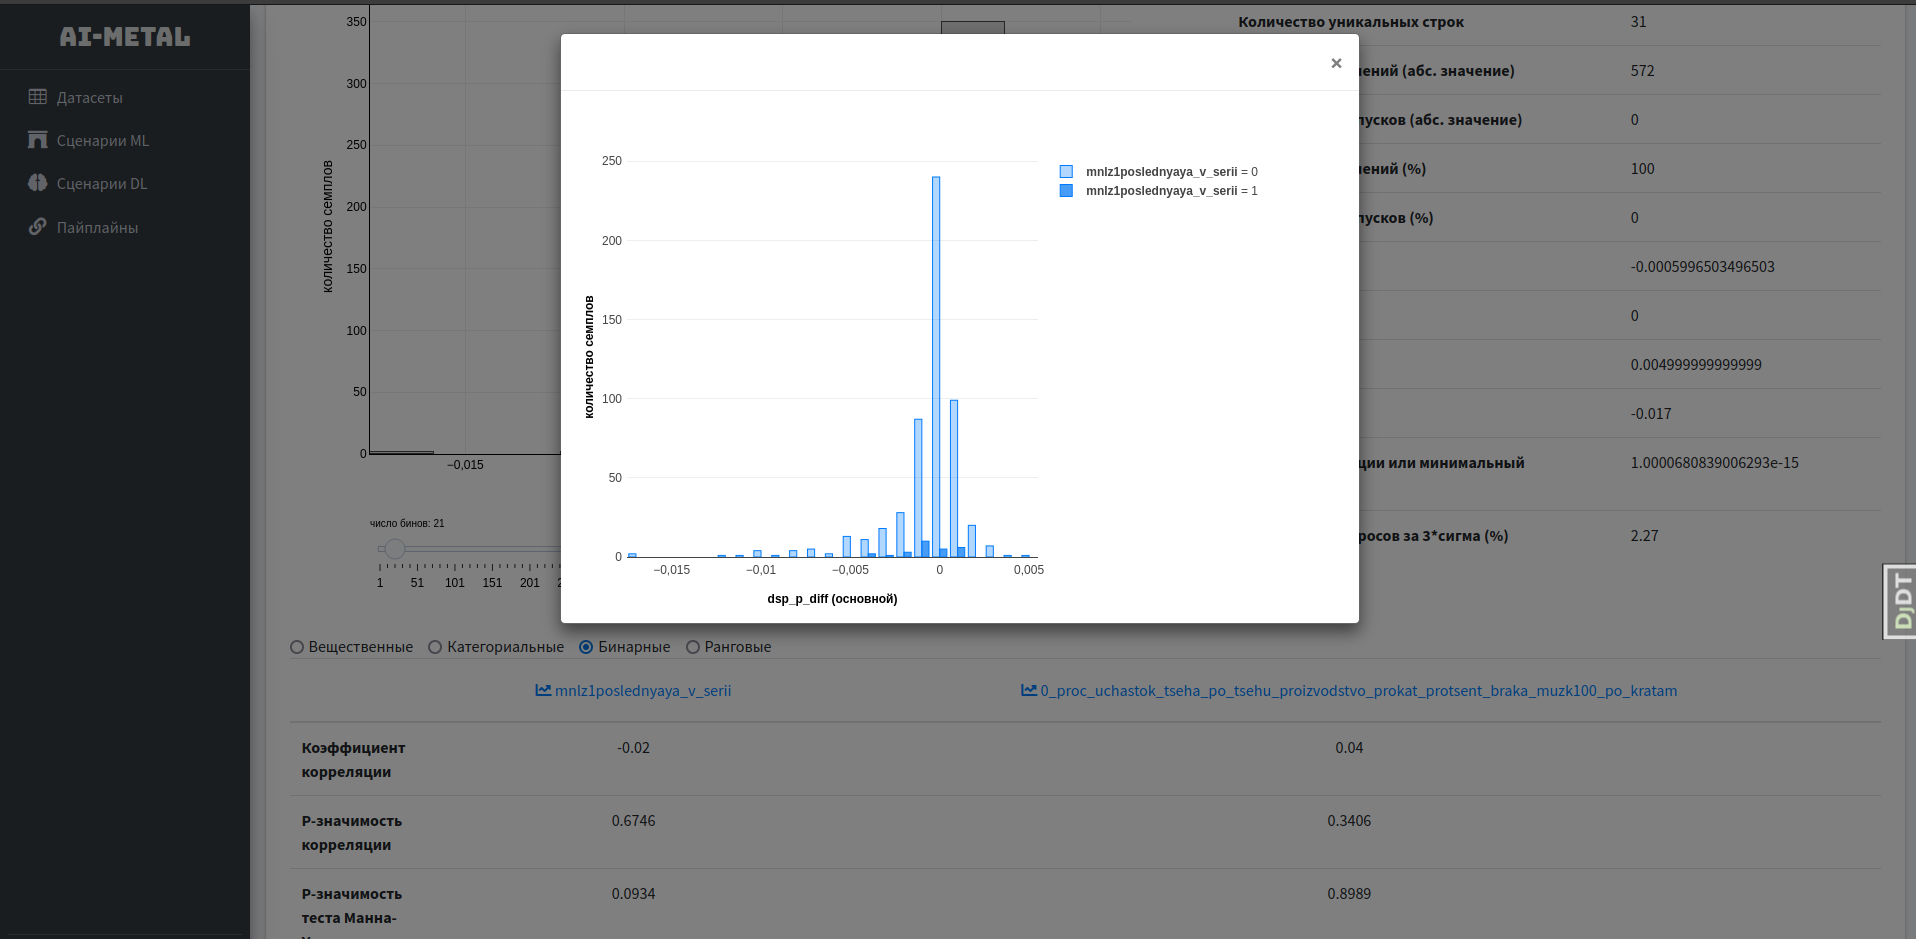
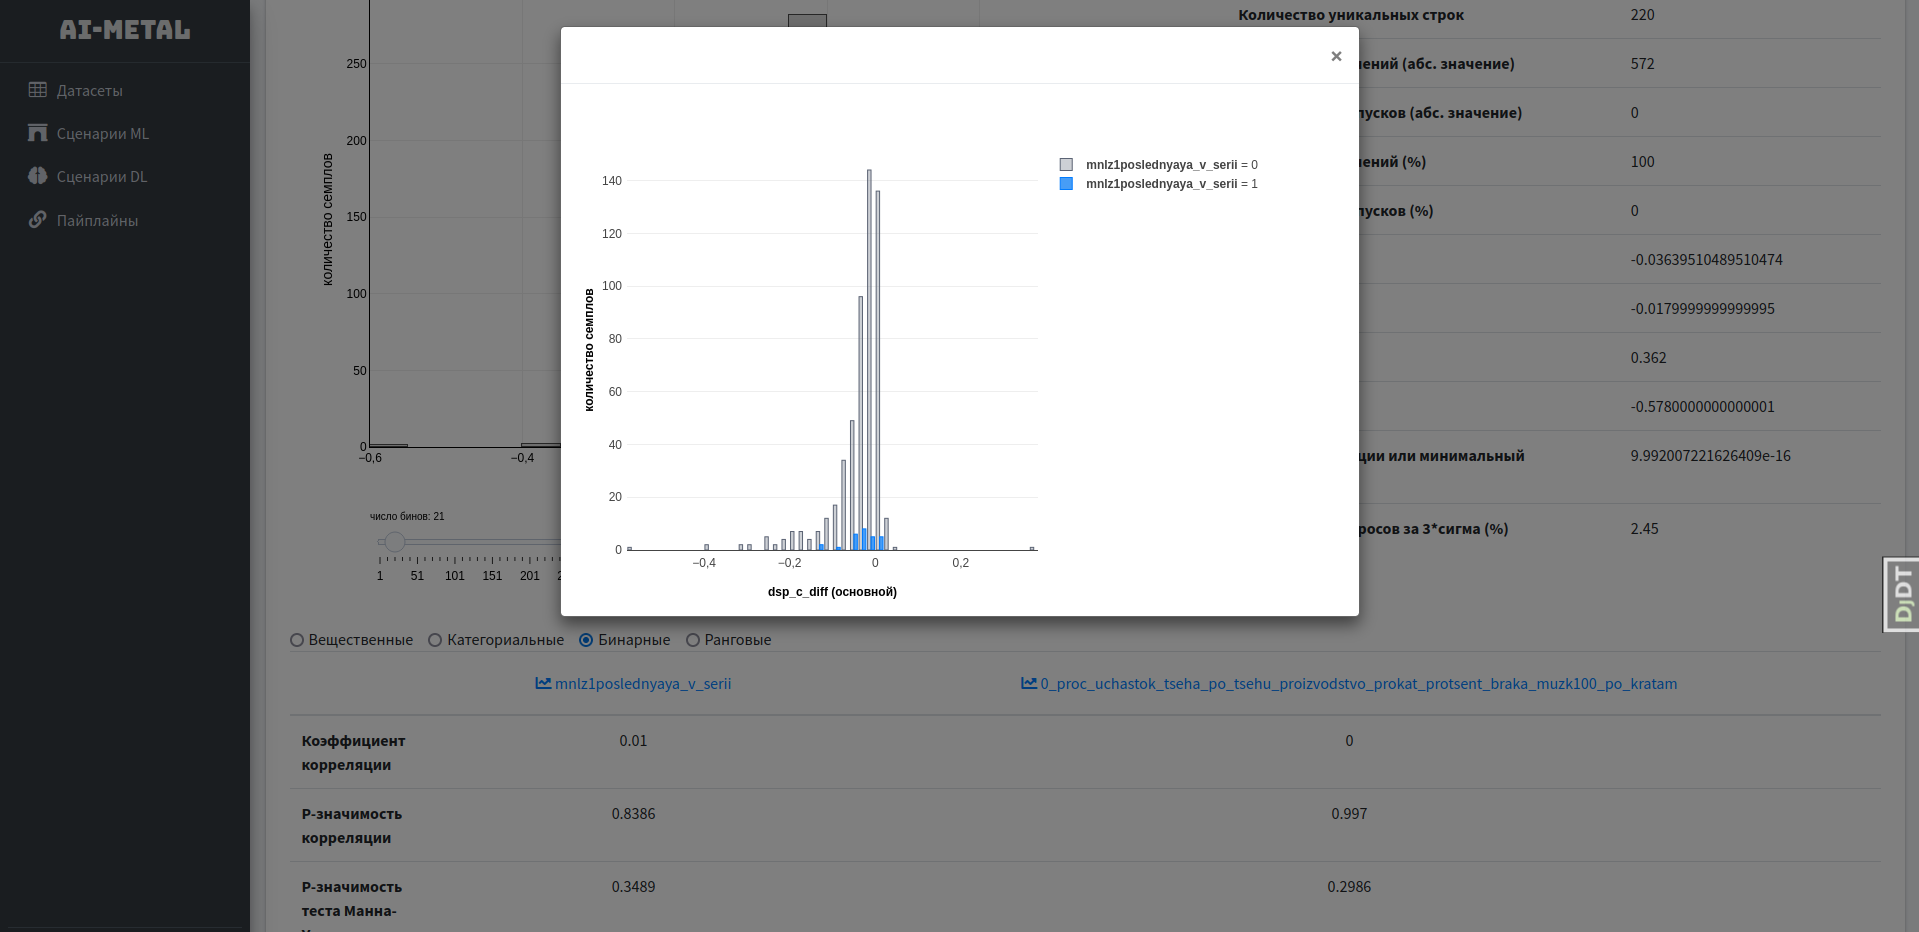
edit hists (light blue to grey)

diff --git a/blue_plots/static/common.js b/blue_plots/static/common.js
@@ -204,9 +204,13 @@ $(function () {
                 // name: col_a_type !== 'binary' ? cols.b + ' = 0' : cols.a + ' = 0',
                 name: 'first',
                 marker: {
-                    color: 'rgba(0, 123, 255, 0.3)',
+                    // color: 'rgba(0, 123, 255, 0.3)',
+                    // color: 'rgba(117,125,141,0.3)',
+                    // color: 'rgba(91,99,116,0.3)',
+                    color: 'rgba(91,99,116,0.3)',
                     line: {
-                        color: 'rgb(0, 123, 255)',
+                        // color: 'rgba(117,125,141)',
+                        color: 'rgba(91,99,116)',
                         width: 1
                     }
                 }
@@ -217,6 +221,7 @@ $(function () {
                 name: 'second',
                 marker: {
                     color: 'rgba(10,124,243,0.75)',
+                    // color: 'rgba(117,125,141,0.3)',
                     line: {
                         color: 'rgb(0, 123, 255)',
                         width: 1
